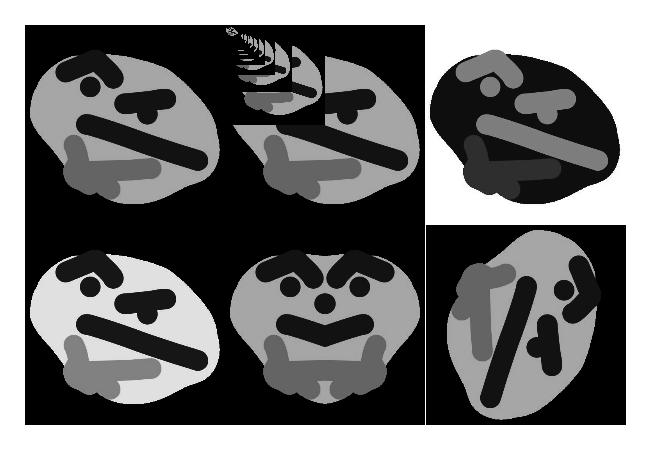
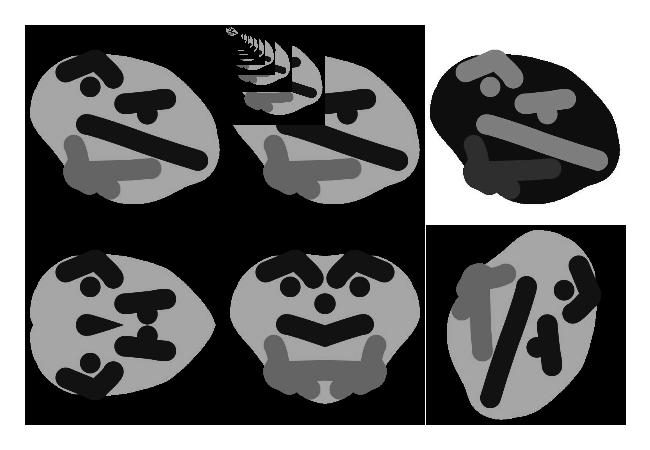
done

Changed region(s): [[0.0308, 0.56, 0.3385, 0.9022], [0.1231, 0.5911, 0.1538, 0.6222], [0.0923, 0.56, 0.1231, 0.5911]]

diff --git a/Picture.java b/Picture.java
@@ -1,6 +1,6 @@
+//Naraen Palanikumar
 
 import java.awt.*;
-
 import java.awt.font.*;
 import java.awt.geom.*;
 import java.awt.image.BufferedImage;
@@ -30,7 +30,7 @@ public class Picture extends SimplePicture
         super();
     }
 
-    public void copy (Picture sourcePicture, int xpos, int ypos)
+    public void copy (Picture sourcePicture, int xpos, int ypos) //copy method
     {
         Pixel sourcePixel = null;
         Pixel targetPixel = null;
@@ -47,7 +47,7 @@ public class Picture extends SimplePicture
         }
     }
 
-    public void recursive(Picture sourcePicture, int divide, int xpos, int ypos)
+    public void recursive(Picture sourcePicture, int divide, int xpos, int ypos) //divides the picture and layers it recursively
     {
         Pixel sourcePixel = null;
         Pixel targetPixel = null;
@@ -67,18 +67,19 @@ public class Picture extends SimplePicture
                 }
             }
 
-            //increasing divide increases the amount the image is divided
+            //increasing divide increases the amount the image is divided each time
             divide++;
             //recursively called
             recursive(sourcePicture,divide,xpos,ypos);
         }
     }
 
-    public void invert()
+    public void invert() //invert method
     {
         //creates an array of pixels p
         Pixel[] p = this.getPixels();
 
+        //inverts each pixels and repalce
         for (Pixel i: p)
         {
             i.setRed((255-i.getRed()));
@@ -87,42 +88,26 @@ public class Picture extends SimplePicture
         }
     }
 
-    public void sepia()
-    {  
-        //creates an array of pixels p
-        Pixel[] p = this.getPixels();
+    public void mirrorHorizontal() //mirrors it along x axis
+    {
+        int height = this.getHeight();
+        int mirrorPoint = height/2;
 
-        for (Pixel i: p)
+        Pixel topPixel = null;
+        Pixel bottomPixel = null;
 
+        for (int x = 0; x < getWidth(); x++)//loop from 0 to end of x
         {
-            //Found the formula for making a sepia image from this link
-            //https://www.dyclassroom.com/image-processing-project/how-to-convert-a-color-image-into-sepia-image
-            int r = i.getRed(); 
-            int g = i.getGreen();
-            int b = i.getBlue();
-
-            double tr = 0.393*r + 0.769*g + 0.189*b;
-            double tg = 0.349*r + 0.686*g + 0.168*b;
-            double tb = 0.272*r + 0.534*g + 0.131*b;
-            
-            if (tr > 255)
-                i.setRed(255);
-            else
-                i.setRed((int)tr);
-            
-            if (tg > 255)
-                i.setGreen(255);
-            else
-                i.setGreen((int)tg);
-            
-            if (tg > 255)
-                i.setBlue(255);
-            else
-                i.setBlue((int)tb);
+            for (int y = 0; y < mirrorPoint; y++) //loop from bottom to mirror point
+            {
+                topPixel = getPixel(x,y);
+                bottomPixel = getPixel(x,height-1-y);
+                bottomPixel.setColor(topPixel.getColor());
+            }
         }
     }
 
-    public void mirrorVertical()
+    public void mirrorVertical() //mirrors it along y axis
     {
         int width = this.getWidth();
         int mirrorPoint = width/2;
@@ -141,11 +126,12 @@ public class Picture extends SimplePicture
         }
     }
 
-    public void rotate (Picture sourcePicture,int xpos, int ypos)
+    public void rotate (Picture sourcePicture,int xpos, int ypos) //rotate method for my image
     {
         Pixel sourcePixel = null;
         Pixel targetPixel = null;
 
+        //effectively replaces each pixel rotating
         for (int sourceX = 0, targetY = ypos;sourceX < sourcePicture.getWidth();sourceX++, targetY++)
         {
             for (int sourceY = 0, targetX = sourcePicture.getHeight()+xpos;sourceY < sourcePicture.getHeight();sourceY++, targetX--)

diff --git a/Collage.java b/Collage.java
@@ -5,7 +5,7 @@ public class Collage
         Picture original = new Picture("collage/thonk.png");
         Picture recursive = new Picture("collage/thonk.png");
         Picture invert = new Picture("collage/thonk.png");
-        Picture sepia = new Picture("collage/thonk.png");
+        Picture mHorizontal = new Picture("collage/thonk.png");
         Picture mVertical = new Picture("collage/thonk.png");
         Picture rotate = new Picture("collage/thonk.png");
         
@@ -22,9 +22,9 @@ public class Collage
         invert.invert();
         canvas.copy(invert,425,25);
 
-        //converts to grey
-        sepia.sepia();
-        canvas.copy(sepia,25,225);
+        //mirrors over horizontal line
+        mHorizontal.mirrorHorizontal();
+        canvas.copy(mHorizontal,25,225);
 
         //mirrors over vertical line
         mVertical.mirrorVertical();
